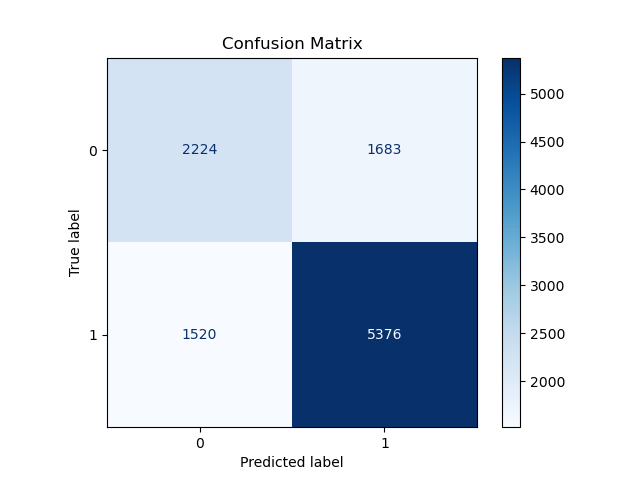
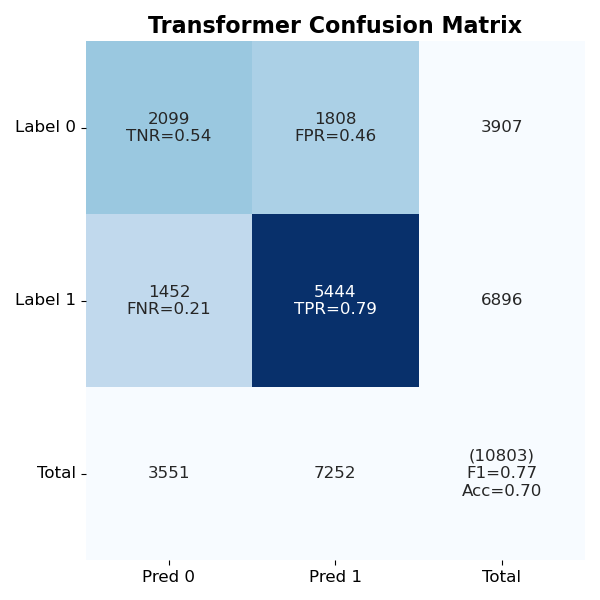
transformer

diff --git a/dev/model.py b/dev/model.py
@@ -208,18 +208,55 @@ def load_model():
     else:
         raise FileNotFoundError(f"Model not found at {MODEL_SAVE_PATH}")
 
-def plot_cm(predictions, labels, save_path):
-    from sklearn.metrics import confusion_matrix, ConfusionMatrixDisplay
+# def plot_cm(predictions, labels, save_path):
+#     from sklearn.metrics import confusion_matrix, ConfusionMatrixDisplay
 
-    cm = confusion_matrix(labels, predictions)
-    disp = ConfusionMatrixDisplay(confusion_matrix=cm)
-    disp.plot(cmap=plt.cm.Blues)
-    plt.title('Confusion Matrix')
+#     cm = confusion_matrix(labels, predictions)
+#     disp = ConfusionMatrixDisplay(confusion_matrix=cm)
+#     disp.plot(cmap=plt.cm.Blues)
+#     plt.title('Confusion Matrix')
+#     plt.savefig(save_path)
+#     plt.close()
+#     print(f"Confusion matrix saved to {save_path}")
+
+def plot_cm(predictions, labels, save_path, _title='Confusion Matrix'):
+    from sklearn.metrics import confusion_matrix, f1_score, accuracy_score
+    cm = confusion_matrix(labels, predictions, labels=[0, 1])
+    tn, fp, fn, tp = cm.ravel()
+    total = tn + fp + fn + tp
+    tpr = tp / (tp + fn) if (tp + fn) else 0.0
+    tnr = tn / (tn + fp) if (tn + fp) else 0.0 
+    fpr = fp / (fp + tn) if (fp + tn) else 0.0
+    fnr = fn / (fn + tp) if (fn + tp) else 0.0
+    f1 = f1_score(labels, predictions)
+    acc = accuracy_score(labels, predictions)
+
+    pred_sum = np.sum(cm, axis=0)
+    label_sum = np.sum(cm, axis=1)
+
+    cm_ext = np.zeros((3, 3), dtype=int)
+    cm_ext[:2, :2] = cm
+    # cm_ext[2, :2] = pred_sum
+    # cm_ext[:2, 2] = label_sum
+    # cm_ext[2, 2] = total
+
+    cell_text = [
+        [f"{tn}\nTNR={tnr:.2f}", f"{fp}\nFPR={fpr:.2f}", f"{label_sum[0]}"],
+        [f"{fn}\nFNR={fnr:.2f}", f"{tp}\nTPR={tpr:.2f}", f"{label_sum[1]}"],
+        [f"{pred_sum[0]}", f"{pred_sum[1]}", f"({total})\nF1={f1:.2f}\nAcc={acc:.2f}"]
+    ]
+
+    plt.figure(figsize=(6, 6))
+    ax = sns.heatmap(cm_ext, annot=cell_text, fmt="", cbar=False, cmap="Blues", annot_kws={"size": 12})
+
+    ax.set_xticklabels(['Pred 0', 'Pred 1', 'Total'], fontsize=12)
+    ax.set_yticklabels(['Label 0', 'Label 1', 'Total'], fontsize=12, rotation=0)
+    plt.title(_title, fontsize=16, weight="bold")
+    plt.tight_layout()
     plt.savefig(save_path)
     plt.close()
-    print(f"Confusion matrix saved to {save_path}")
 
-def evaluate_model(model, val_dataset, save_path=None):
+def evaluate_model(model, val_dataset, save_path=None, plt_title='Confusion Matrix'):
     trainer = Trainer(model=model)
     eval_results = trainer.evaluate(eval_dataset=val_dataset)
     print("Evaluation results:", eval_results)
@@ -228,7 +265,7 @@ def evaluate_model(model, val_dataset, save_path=None):
     preds = predictions.argmax(-1)
 
     if save_path is not None:
-        plot_cm(preds, labels, save_path)
+        plot_cm(preds, labels, save_path, _title=plt_title)
     
     report = classification_report(labels, preds, output_dict=True)
     print("Classification Report:\n", report)
@@ -267,7 +304,7 @@ def preprocess_data_transformer(df):
     df = df[['clean_notes', 'class', 'vote']]
     # drop duplicates
     df = df.drop_duplicates(subset=['clean_notes']).reset_index(drop=True)
-    train_df, val_df = train_test_split(df, test_size=0.2, random_state=21474, stratify=df['class'])
+    train_df, val_df = train_test_split(df, test_size=0.2, random_state=65535, stratify=df['class'])
     return train_df, val_df
 
 class TextVocab:
@@ -350,7 +387,7 @@ def train_transformer(train_loader, val_loader, vocab_size, device='cuda'):
             best_val_acc = acc
             torch.save(model.state_dict(), 'models/transformer-baseline.pt')
     print(classification_report(y_true, y_pred))
-    plot_cm(y_pred, y_true, save_path='img/transformer_confusion_matrix.png')
+    plot_cm(y_pred, y_true, save_path='img/transformer_confusion_matrix.png', _title='Transformer Confusion Matrix')
     return model
 
 # Begin main functions
@@ -361,7 +398,7 @@ def train_and_evaluate():
 
     model = train_model(train_dataset, val_dataset)
 
-    evaluate_model(model, val_dataset, save_path='img/distilbert_confusion_matrix.png')
+    evaluate_model(model, val_dataset, save_path='img/distilbert_confusion_matrix.png', plt_title='DistilBERT Confusion Matrix')
 
 def train_with_hyperparameter_search():
     df = pd.read_csv(DATA_PATH)
